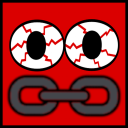
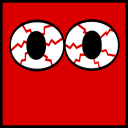
reduce permissions using 'activeTab' instead of 'tabs'

Changed region(s): [[0.0312, 0.5625, 0.9688, 0.9375]]

diff --git a/src/background.js b/src/background.js
@@ -2,22 +2,6 @@ const regex_site = /^https?:\/\/(?:[^.]+\.)?(rev?ddit)\.com/
 const reddit_title = 'View on reddit'
 let shiftPressed = false;
 
-
-const getBrowser = () => {
-    if (typeof browser !== "undefined") {
-        return "firefox";
-    } else {
-        return "chrome";
-    }
-}
-
-
-// For this extension, a missing tabId just means it was closed before
-// the page action could be applied, so we can ignore any error
-const nothing = () => {
-  if (chrome.runtime.lastError) {}
-}
-
 const updateTabURL = (url, tab) => {
   const matches = url.match(regex_site)
   if (matches) {
@@ -34,47 +18,17 @@ const updateTabURL = (url, tab) => {
   shiftPressed = false
 }
 
-chrome.pageAction.onClicked.addListener(tab => {
+chrome.browserAction.onClicked.addListener(tab => {
   updateTabURL(tab.url, tab)
 })
-
-chrome.tabs.onUpdated.addListener((tabId, changeInfo, tab) => {
-  const matches = tab.url.match(regex_site)
-  if (changeInfo.status === 'complete' && matches) {
-    if (matches[1] === 'revddit') {
-      if (getBrowser() === 'chrome') {
-        chrome.pageAction.setTitle({tabId, title: reddit_title}, () => nothing())
-      } else {
-        chrome.pageAction.setTitle({tabId, title: reddit_title})
-      }
-    }
-    chrome.pageAction.show(tabId, () => nothing());
-  } else if (changeInfo.status === 'complete') {
-    chrome.pageAction.hide(tabId, () => nothing());
-  }
-});
-chrome.tabs.onCreated.addListener((tab) => {
-  const matches = tab.url.match(regex_site)
-  if (tab.url && matches) {
-    if (matches[1] === 'revddit') {
-      if (getBrowser() === 'chrome') {
-        chrome.pageAction.setTitle({tabId: tab.id, title: reddit_title}, () => nothing())
-      } else {
-        chrome.pageAction.setTitle({tabId: tab.id, title: reddit_title})
-      }
-    }
-    chrome.pageAction.show(tab.id, () => nothing());
-  }
-});
-
 
 const contextMenu_id = 'revddit-link'
 chrome.contextMenus.removeAll(() => {
   chrome.contextMenus.create({
     id: contextMenu_id,
-    title: 'revddit/reddit-view toggle',
+    title: 'View on re(v)ddit',
     contexts: ['link','page'],
-    documentUrlPatterns: ['https://*.reddit.com/*', 'https://revddit.com/*']
+    documentUrlPatterns: ['https://*.reddit.com/*', 'https://*.revddit.com/*', 'https://*.reveddit.com/*']
   })
 })
 chrome.contextMenus.onClicked.addListener(function(info, tab) {
@@ -89,12 +43,13 @@ chrome.contextMenus.onClicked.addListener(function(info, tab) {
 
 
 chrome.runtime.onMessage.addListener(function(request, sender, sendResponse){
-    switch(request.type){
-        case 'shiftDown':
-            shiftPressed = true;
-            break;
-        case 'shiftUp':
-            shiftPressed = false;
-            break;
-    }
+  switch(request.type){
+    case 'shiftDown':
+      shiftPressed = true;
+      break;
+    case 'shiftUp':
+      shiftPressed = false;
+      break;
+  }
+  sendResponse({response: "done"})
 });

diff --git a/webpack.config.js b/webpack.config.js
@@ -1,8 +1,19 @@
-const { resolve } = require("path");
+const webpack = require("webpack")
+const path = require("path")
 const CopyWebpackPlugin = require("copy-webpack-plugin");
 const ExtensionReloader  = require("webpack-extension-reloader");
+const COMMON = require("./webpack.common.js")
 
 const mode = process.env.NODE_ENV;
+const distFolder = COMMON.getDistFolderName(mode, process.env.FORCHROME, process.env.FORFIREFOX)
+const distPath = path.join(__dirname, distFolder)
+
+const manifestPath = path.resolve(__dirname, "./src/manifest.json")
+
+let built_for = '"chrome"'
+if (process.env.FORFIREFOX) {
+    built_for = '"firefox"'
+}
 
 module.exports = {
   mode,
@@ -12,20 +23,22 @@ module.exports = {
     content: './src/content.js'
   },
   output: {
-    publicPath: ".",
-    path: resolve(__dirname, "dist/"),
+    path: distPath,
     filename: "[name].js"
   },
   plugins: [
     new ExtensionReloader({
       port: 9123,
       reloadPage: true,
-      manifest: resolve(__dirname, "./src/manifest.json")
+      manifest: manifestPath
     }),
     new CopyWebpackPlugin([
       { from: "./src/manifest.json" },
       { from: "./src/icons", to:'icons/' }
-    ])
+    ]),
+    new webpack.DefinePlugin({
+      __BUILT_FOR__: built_for
+    })
   ],
   module: {
     rules: [

diff --git a/webpack.common.js b/webpack.common.js
@@ -1,0 +1,16 @@
+function getDistFolderName (mode, forChrome, forFirefox) {
+    let folderName = 'dist-'
+
+    if (mode === 'development') {
+        folderName += 'dev-'
+    }
+    if (forChrome) {
+        return folderName + 'chrome'
+    } else if (forFirefox) {
+        return folderName + 'firefox'
+    } else {
+        return folderName + 'unknown'
+    }
+}
+module.exports.getDistFolderName = getDistFolderName
+
